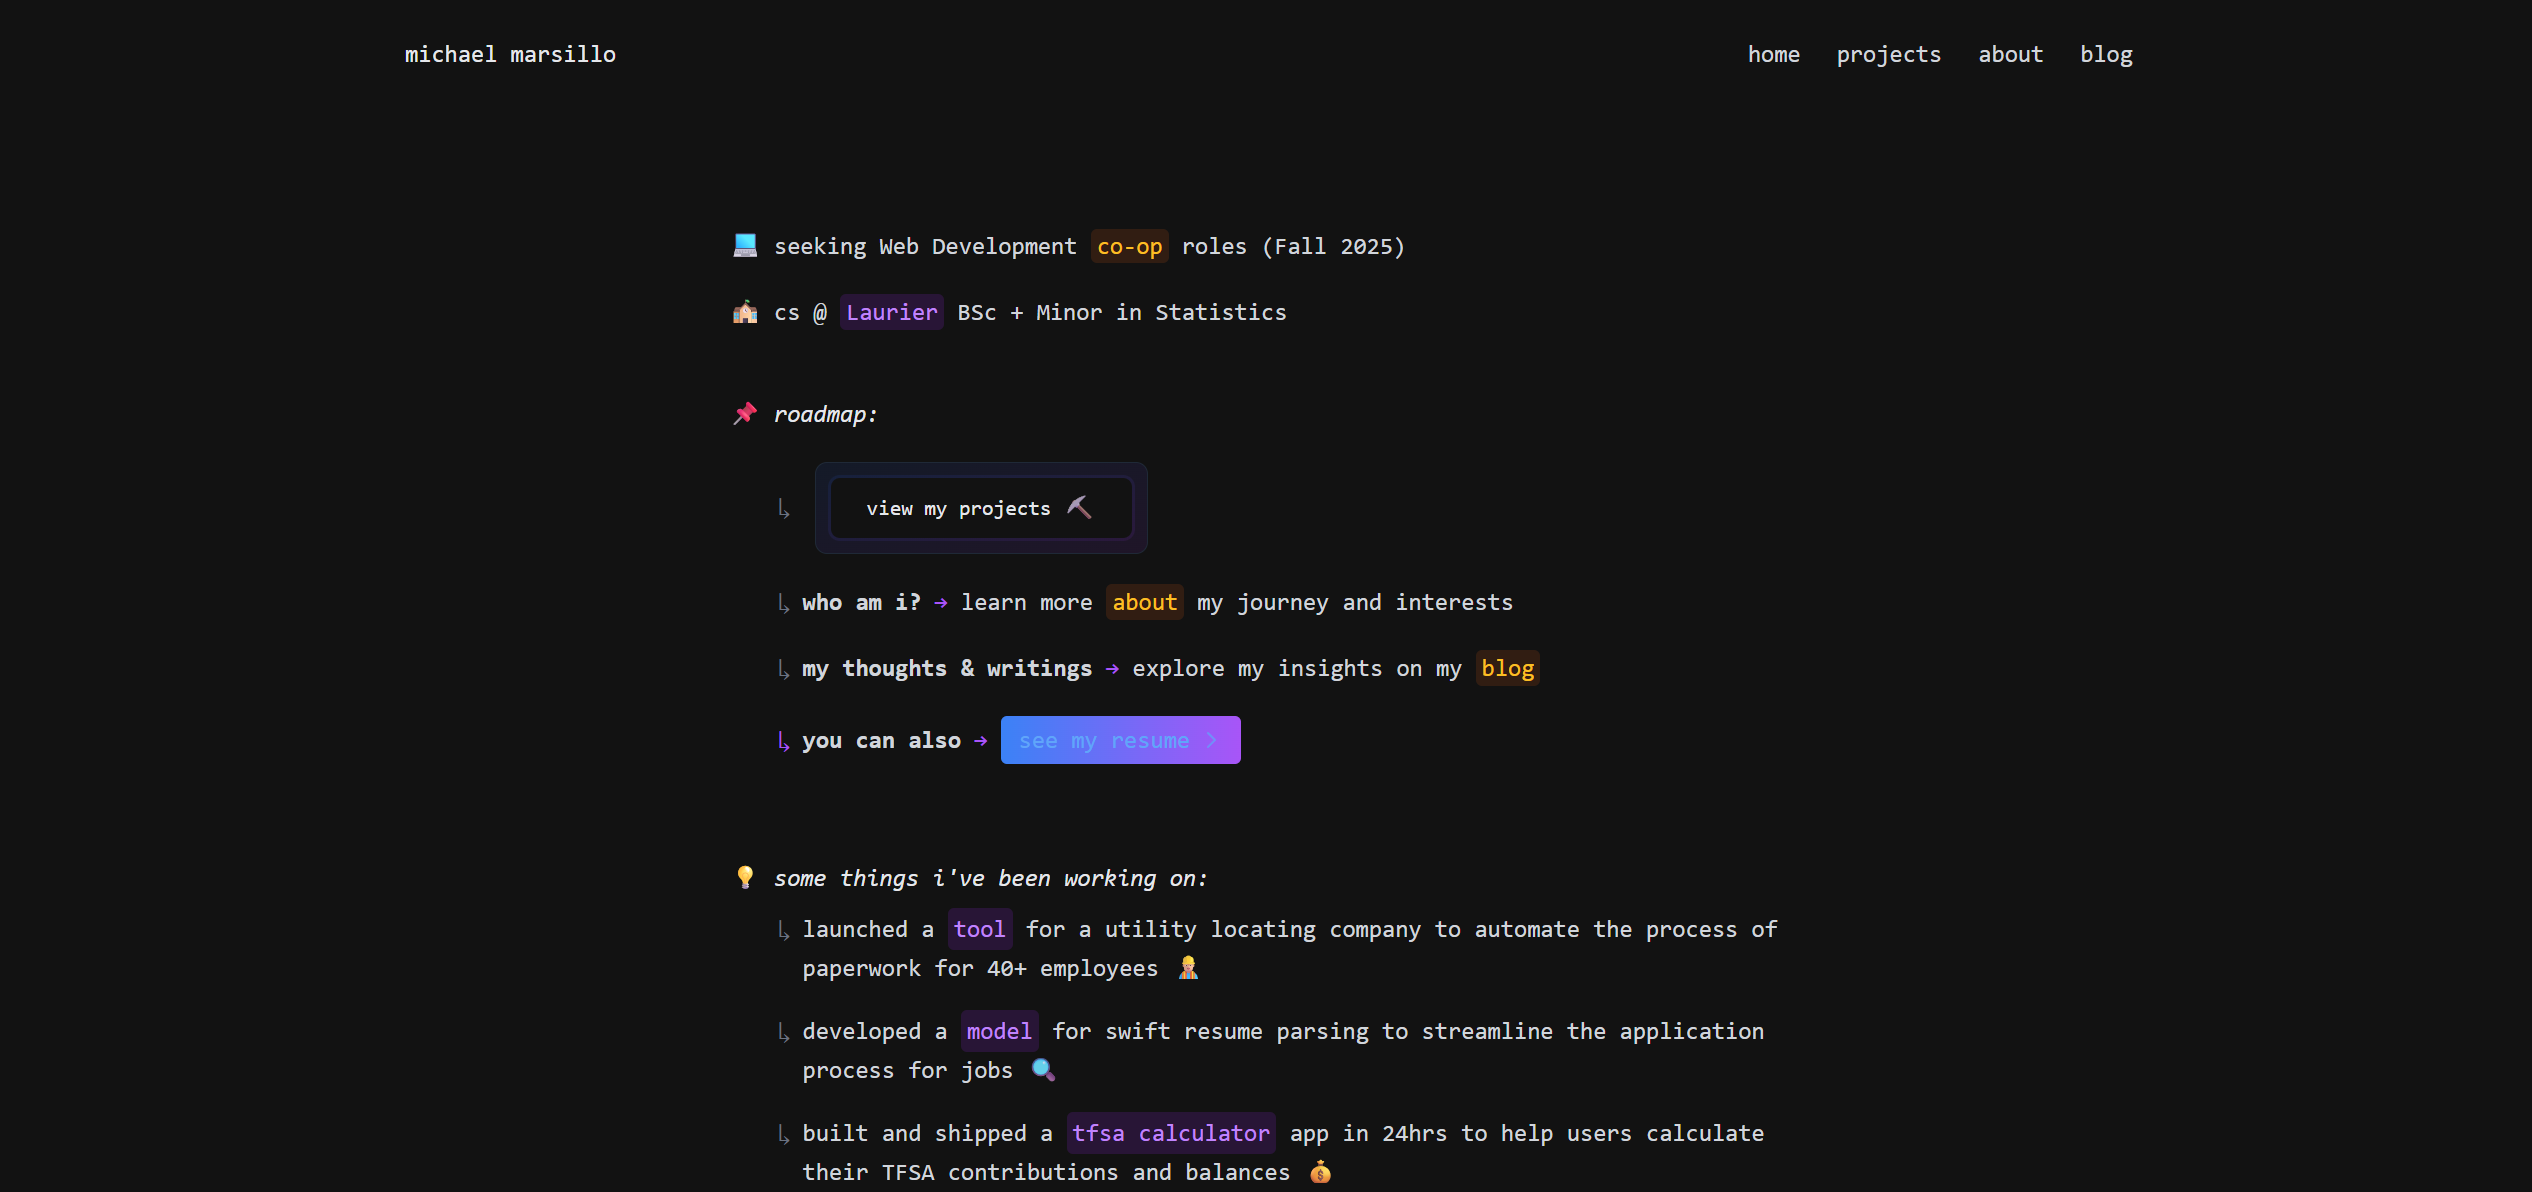
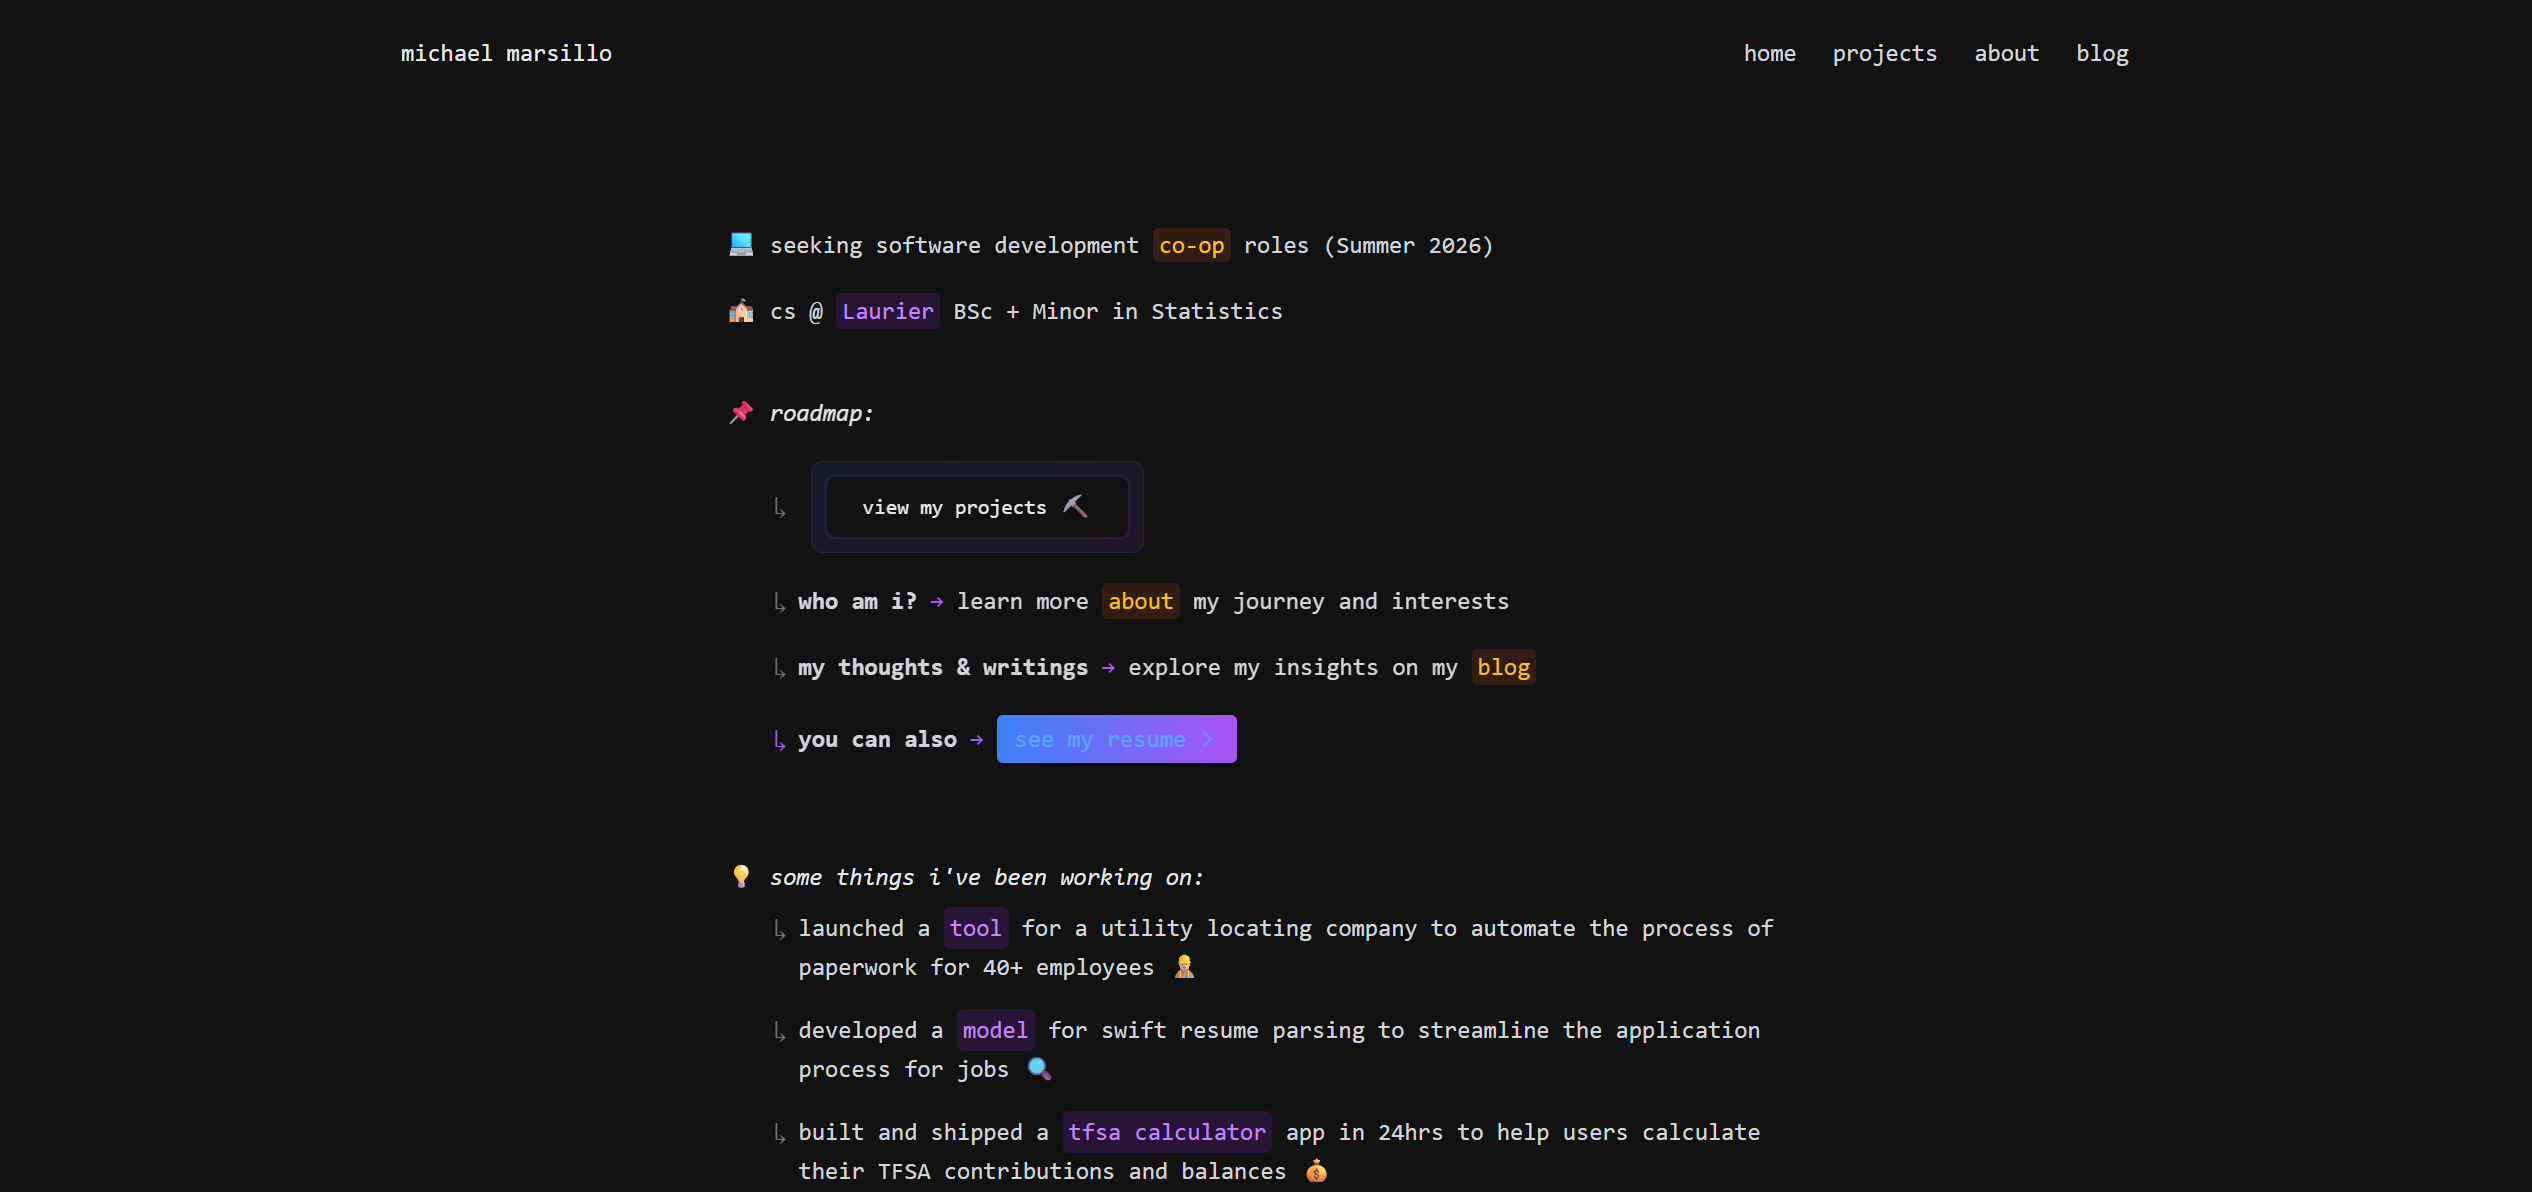
updated portfolio website project image

diff --git a/src/blog/blogData.js b/src/blog/blogData.js
@@ -14,9 +14,9 @@ Also the food was actually quite good too (shoutout to the organizers for keepin
 ## The Team
 ![SPURHACKS 2025 crop-square](/images/spurhacksteam.jpg)
 I teamed up with these three weirdos:
-- **[Tony Taseski](https://www.linkedin.com/in/a-taseski)** - Full-stack wizard
-- **[Gurshan Sidhar](https://www.linkedin.com/in/gurshan-sidhar)** - Backend mastermind  
-- **[Spencer Kelly](https://www.linkedin.com/in/spencergk)** - Frontend architect
+- **[Tony Taseski](https://www.linkedin.com/in/a-taseski)** - Full-stack
+- **[Gurshan Sidhar](https://www.linkedin.com/in/gurshan-sidhar)** - Backend
+- **[Spencer Kelly](https://www.linkedin.com/in/spencergk)** - Frontend
 
 We knew we wanted to build something that would solve a real problem for students like us.
 ## The Idea: LuckyLease 🍀
